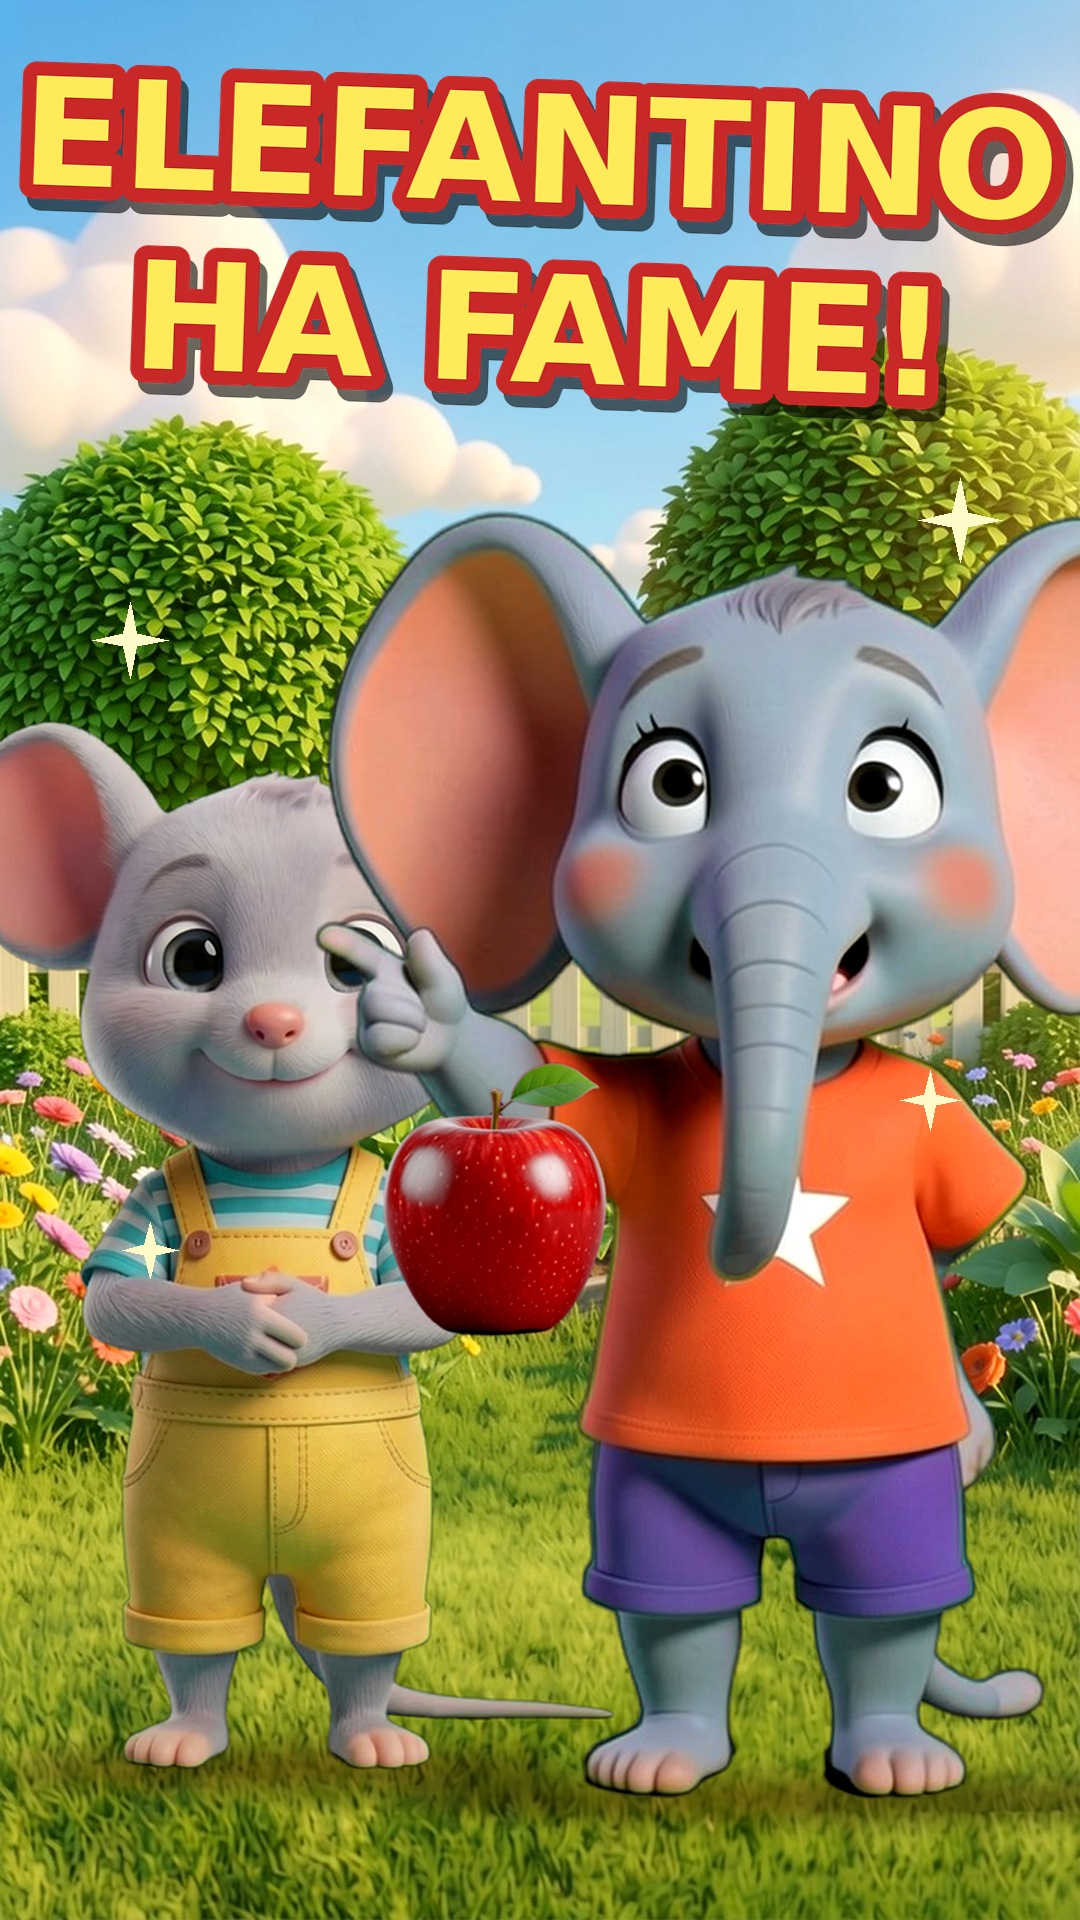
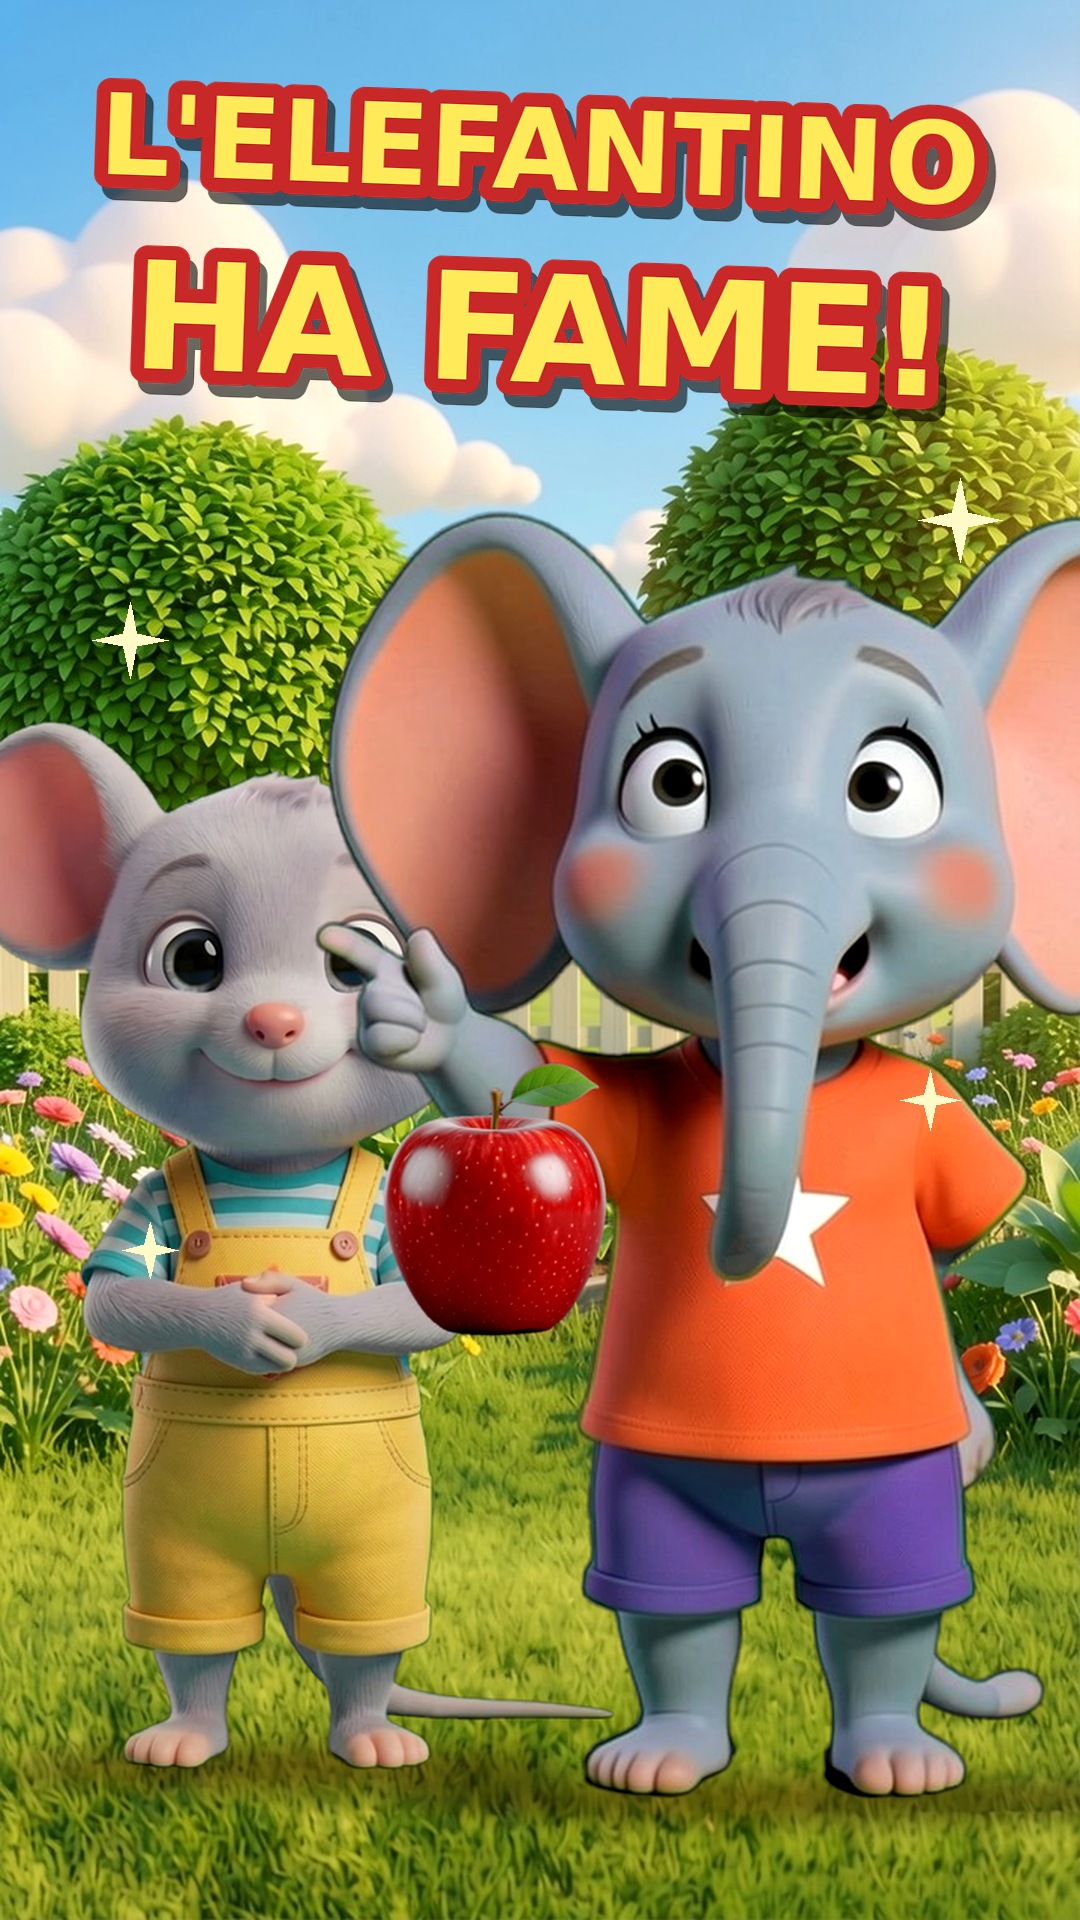
Miniatura elefantino: articolo L'
Claude-Session: https://claude.ai/code/session_016ZKFNdy6hFkgYi9UfM5sKu

Changed region(s): [[0.0, 0.0312, 1.0, 0.1562]]

diff --git a/parco/miniatura_mela.py b/parco/miniatura_mela.py
@@ -10,7 +10,7 @@ def tall():
     img = Image.open(os.path.join(HERE, "assets", "v", "mela", "start1.png")).convert("RGB").resize((1080, 1920), Image.LANCZOS)
     img = ImageEnhance.Color(ImageEnhance.Contrast(img).enhance(1.08)).enhance(1.12)
     for (x, y, r) in ((130, 640, 38), (960, 520, 42), (930, 1100, 30), (150, 1250, 28)): sparkle(img, x, y, r)
-    outline_text(img, "ELEFANTINO", 540, 150, 150, (255, 235, 90), (200, 40, 40), 14, rot=-2)
+    outline_text(img, "L'ELEFANTINO", 540, 150, 112, (255, 235, 90), (200, 40, 40), 14, rot=-2)
     outline_text(img, "HA FAME!", 540, 330, 150, (255, 235, 90), (200, 40, 40), 14, rot=-2)
     return img
 
